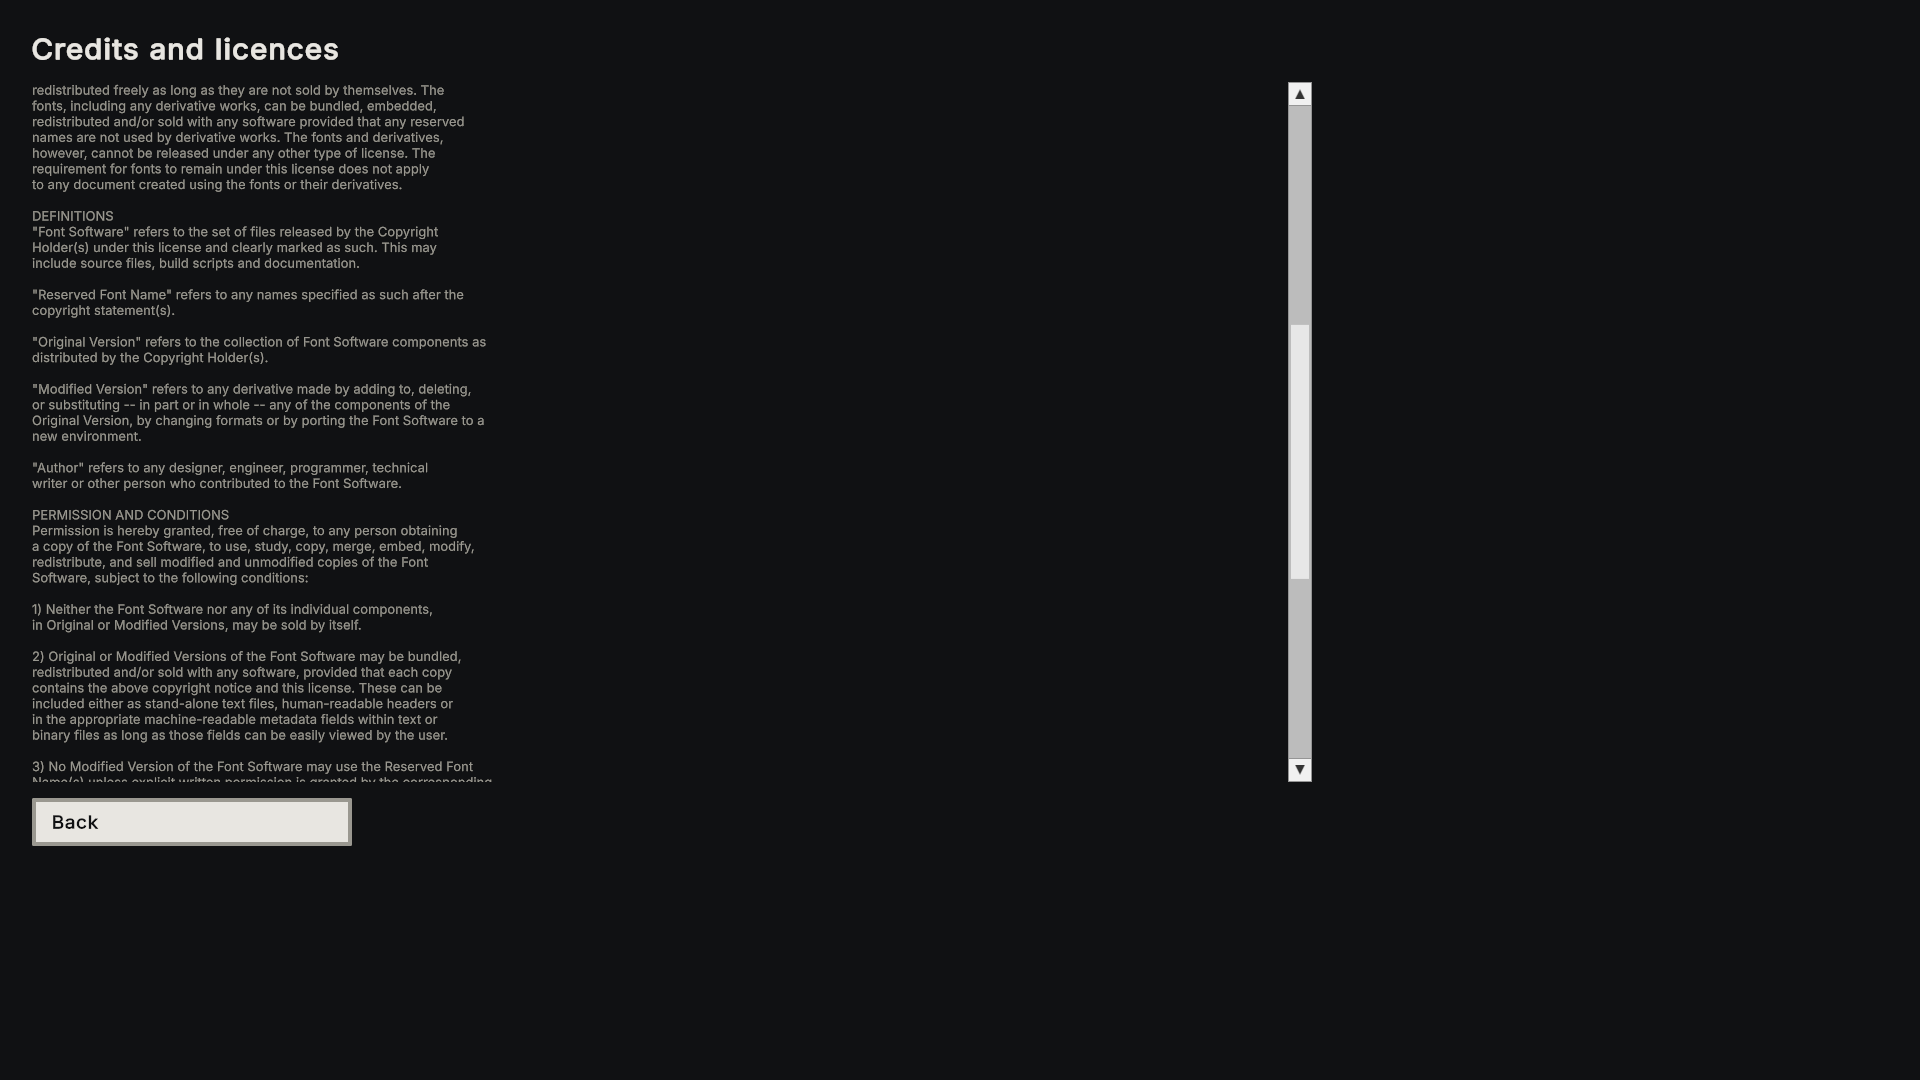
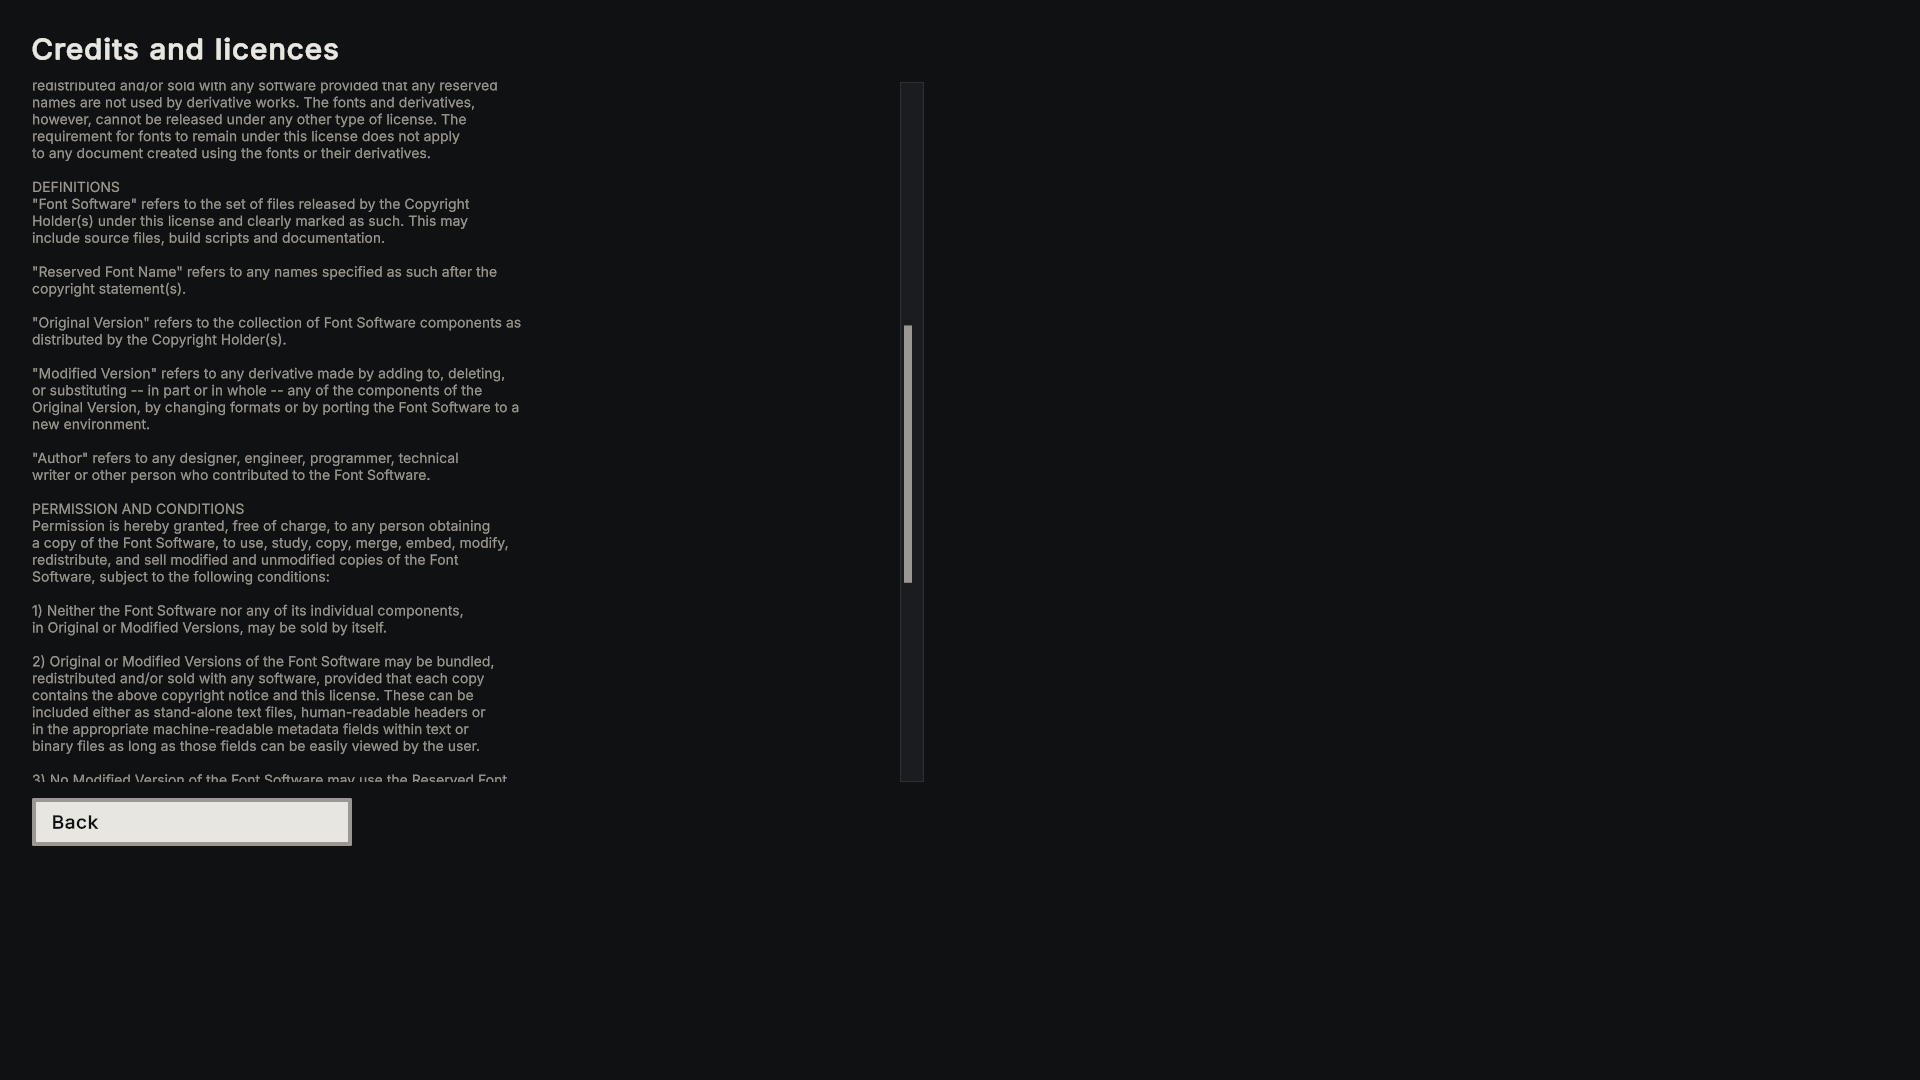
S3-credits a2: arrow/d-pad scrolling, themed scroller, narrower text column, guards, new shots

Changed region(s): [[0.0, 0.0611, 0.25, 0.7333], [0.6562, 0.0611, 0.6875, 0.7333], [0.4688, 0.3056, 0.5, 0.55]]

diff --git a/Client/Assets/Tests/EditMode/CreditsTests.cs b/Client/Assets/Tests/EditMode/CreditsTests.cs
@@ -74,6 +74,55 @@ namespace PingTheKiller.Client.Tests
         }
 
         [Test]
+        public void UpAndDownScrollTheBodyClampedAtBothEndsAndBackKeepsFocus()
+        {
+            var window = UnityEditor.EditorWindow.CreateInstance<UnityEditor.EditorWindow>(); window.Show();
+            try
+            {
+                var screen = new CreditsScreen(window.rootVisualElement, Resources.Load<Font>("Fonts/Inter-Regular"));
+                screen.Show();
+                var view = screen.Scroll;
+                // Edit-mode layout is lazy: give the content a known height and a short viewport, then force a layout pass.
+                view.style.height = 300; view.contentContainer.style.minHeight = 1200;
+                window.rootVisualElement.style.width = 1000; window.rootVisualElement.style.height = 800;
+                ForceLayout(window.rootVisualElement.panel);
+                float max = view.contentContainer.layout.height - view.contentViewport.layout.height;
+                Assume.That(max, Is.GreaterThan(0), "layout ran");
+                Send(screen, NavigationMoveEvent.Direction.Up);
+                Assert.That(view.scrollOffset.y, Is.EqualTo(0), "clamped at the top");
+                Send(screen, NavigationMoveEvent.Direction.Down);
+                Assert.That(view.scrollOffset.y, Is.EqualTo(CreditsScreen.LineStep).Within(.01f), "Down scrolls");
+                for (int i = 0; i < 100; i++) Send(screen, NavigationMoveEvent.Direction.Down);
+                Assert.That(view.scrollOffset.y, Is.EqualTo(max).Within(.01f), "clamped at the end");
+                Send(screen, NavigationMoveEvent.Direction.Up);
+                Assert.That(view.scrollOffset.y, Is.EqualTo(max - CreditsScreen.LineStep).Within(.01f), "Up scrolls back");
+                Assert.That(screen.Visible, Is.True);
+            }
+            finally { Object.DestroyImmediate(window); }
+        }
+
+        // Runs the panel's layout pass without painting (internal API, found by name).
+        private static void ForceLayout(IPanel panel)
+        {
+            const System.Reflection.BindingFlags all = System.Reflection.BindingFlags.Instance | System.Reflection.BindingFlags.Public | System.Reflection.BindingFlags.NonPublic;
+            foreach (string name in new[] { "ValidateLayout", "UpdateWithoutRepaint", "Update" })
+            {
+                for (var type = panel.GetType(); type != null; type = type.BaseType)
+                {
+                    var method = type.GetMethod(name, all, null, System.Type.EmptyTypes, null);
+                    if (method == null) continue;
+                    method.Invoke(panel, null);
+                    break;
+                }
+            }
+        }
+
+        private static void Send(CreditsScreen screen, NavigationMoveEvent.Direction direction)
+        {
+            using (var move = NavigationMoveEvent.GetPooled(direction)) { move.target = screen.Panel; screen.Panel.SendEvent(move); }
+        }
+
+        [Test]
         public void TheContentScrollsAndEndsWithTheOtherNotice()
         {
             var screen = Build(out _);

diff --git a/Client/Assets/Scripts/Dev/DevCapture.cs b/Client/Assets/Scripts/Dev/DevCapture.cs
@@ -705,7 +705,7 @@ namespace PingTheKiller.Client.Dev
         private double creditsAt = -1;
         private bool CreditsShot(double t)
         {
-            if (screens == null) { creditsStage = 5; return false; }
+            if (screens == null) { creditsStage = 9; return false; }
             switch (creditsStage)
             {
                 case 0: screens.ShowCredits(); creditsAt = t; creditsStage = 1; return true;
@@ -717,7 +717,9 @@ namespace PingTheKiller.Client.Dev
                         creditsAt = t; creditsStage = 3; return true;
                     }
                 case 3: if (t < creditsAt + .5) return true; creditsStage = 4; Shot("credits-licence.png"); return true;
-                default: screens.CloseCredits(); creditsStage = 5; return false;
+                case 4: screens.Credits.ScrollBy(100000f); creditsAt = t; creditsStage = 6; return true;
+                case 6: if (t < creditsAt + .5) return true; creditsStage = 7; Shot("credits-end.png"); return true;
+                default: screens.CloseCredits(); creditsStage = 9; return false;
             }
         }
         private double howToAt = -1;
@@ -784,8 +786,8 @@ namespace PingTheKiller.Client.Dev
             if (shots && !menuShot && t >= 1) { menuShot = true; Shot("menu.png"); return; }
             if (args.Settings && shots && menuShot && settingsStage < 3 && SettingsMenuShot(t)) return;
             if (args.HowTo && shots && menuShot && (!args.Settings || settingsStage >= 3) && howToStage < 5 && HowToShot(t)) return;
-            if (args.Credits && shots && menuShot && (!args.HowTo || howToStage >= 5) && creditsStage < 5 && CreditsShot(t)) return;
-            if ((args.Offline || args.Join != null) && !joined && (!shots || menuShot) && (!args.Settings || !shots || settingsStage >= 3) && (!args.HowTo || !shots || howToStage >= 5) && (!args.Credits || !shots || creditsStage >= 5))
+            if (args.Credits && shots && menuShot && (!args.HowTo || howToStage >= 5) && creditsStage < 9 && CreditsShot(t)) return;
+            if ((args.Offline || args.Join != null) && !joined && (!shots || menuShot) && (!args.Settings || !shots || settingsStage >= 3) && (!args.HowTo || !shots || howToStage >= 5) && (!args.Credits || !shots || creditsStage >= 9))
             {
                 joined = true;
                 if (args.Offline) Offline?.Invoke(); else Join?.Invoke(args.Join);

diff --git a/Client/Assets/Scripts/UI/CreditsScreen.cs b/Client/Assets/Scripts/UI/CreditsScreen.cs
@@ -40,8 +40,29 @@ namespace PingTheKiller.Client.UI
                 if (e.keyCode != KeyCode.Escape) return;
                 e.StopPropagation(); Close();
             });
+            // Up and Down (arrows, d-pad, stick) scroll by about three lines, PageUp and PageDown by a page; Back keeps focus.
+            panel.RegisterCallback<NavigationMoveEvent>(e =>
+            {
+                if (e.direction != NavigationMoveEvent.Direction.Up && e.direction != NavigationMoveEvent.Direction.Down) return;
+                ScrollBy(e.direction == NavigationMoveEvent.Direction.Down ? LineStep : -LineStep);
+                e.StopPropagation(); e.PreventDefault();
+            });
+            panel.RegisterCallback<KeyDownEvent>(e =>
+            {
+                if (e.keyCode != KeyCode.PageDown && e.keyCode != KeyCode.PageUp) return;
+                ScrollBy((e.keyCode == KeyCode.PageDown ? 1 : -1) * Mathf.Max(LineStep, scroll.contentViewport.layout.height - LineStep));
+                e.StopPropagation();
+            });
             panel.RegisterCallback<NavigationCancelEvent>(e => { e.StopPropagation(); Close(); });
             panel.style.display = DisplayStyle.None;
+        }
+
+        public const float LineStep = 72f; // about three lines of the 14 u body
+        // Scrolls the body by delta logical units, clamped to the content (the mouse wheel and the bar still work).
+        public void ScrollBy(float delta)
+        {
+            float max = Mathf.Max(0, scroll.contentContainer.layout.height - scroll.contentViewport.layout.height);
+            scroll.scrollOffset = new Vector2(0, Mathf.Clamp(scroll.scrollOffset.y + delta, 0, max));
         }
 
         public void Show()

diff --git a/Client/Assets/Scripts/UI/ClientScreens.cs b/Client/Assets/Scripts/UI/ClientScreens.cs
@@ -356,7 +356,7 @@ namespace PingTheKiller.Client.UI
         public void ShowHowTo() => ShowHowTo(Role.Survivor);
         public void ShowHowTo(Role page)
         {
-            if (HowToOpen || Playing) return;
+            if (HowToOpen || CreditsOpen || Playing) return;
             Show(menu, false);
             howTo.Show(page);
         }
@@ -364,7 +364,7 @@ namespace PingTheKiller.Client.UI
         // S3-credits (HUD_SPEC 1.8): the Credits and licences screen replaces the main menu; Back, Esc or B returns to it.
         public void ShowCredits()
         {
-            if (CreditsOpen || Playing) return;
+            if (CreditsOpen || HowToOpen || SettingsOpen || Playing) return;
             Show(menu, false);
             credits.Show();
         }

diff --git a/Client/Assets/Scripts/UI/CreditsCopy.cs b/Client/Assets/Scripts/UI/CreditsCopy.cs
@@ -26,7 +26,7 @@ namespace PingTheKiller.Client.UI
             "Tween library: DOTween by Demigiant",
         };
 
-        public const string InterNotice = "Inter. Copyright (c) 2016 The Inter Project Authors (https://github.com/rsms/inter). Licensed under the SIL Open Font License, Version 1.1. The full licence text follows.";
+        public const string InterNotice = "Inter (font)";
         public const string DoTweenNotice = "DOTween. Copyright (c) 2014-2026 Daniele Giardini, Demigiant. http://dotween.demigiant.com";
 
         // The full OFL text, or an empty string when the asset is missing.

diff --git a/docs/qa/S3-credits-qa-a1.md b/docs/qa/S3-credits-qa-a1.md
@@ -1,0 +1,90 @@
+# S3-credits QA, attempt 1
+
+Reviewer: Claude Fable 5.2 (implementer: Claude Sonnet 5.5). Commit `d4a3045` on `claude/s3-credits`, base `claude/store-prep`.
+
+**Verdict: FAIL** (two SLOP Section 9 gate failures: V10 and keyboard/gamepad navigation). SLOP score 75 / 100.
+
+## What was checked
+
+- Diff `claude/store-prep..d4a3045` read in full (`CreditsScreen.cs`, `CreditsCopy.cs`, `ClientScreens.cs`, `HelpUI.uss`, `DevArgs.cs`, `DevCapture.cs`, tests, docs).
+- Unity EditMode, batch mode, absolute `-testResults`: **1627 total, 1625 passed, 0 failed, 2 skipped**. All 8 `CreditsTests` passed. Matches the implementer's report.
+- A temporary QA probe test (removed afterwards, not committed) drove the real `ClientScreens` runtime panel (`RuntimePanel`, context Player), forced layout and sent `NavigationMoveEvent`s. Results are quoted under F-01 and F-02.
+- Screenshots `docs/qa/S3-credits/menu.png`, `credits-top.png`, `credits-licence.png` (the implementer's; no new shots were taken).
+- Player build `Client/Builds/Win64` (built 13:01, commit 13:02): `PingTheKiller_Data/resources.assets` contains the string `SIL OPEN FONT LICENSE`.
+- `Client/Assets/Resources/DOTweenSettings.asset` was touched by Unity (line endings only) and reverted. The worktree is clean except this report.
+
+## Findings
+
+### F-01 (blocker, gate): the licence text cannot be scrolled with a gamepad or with the arrow keys
+- Repro: open Credits. Focus is on Back. Press d-pad / stick / arrow keys in any direction.
+- Expected (brief): the screen works with keyboard, mouse and gamepad, and scrolls. The OFL text must be viewable by the user.
+- Actual: directional navigation never leaves Back and never scrolls. Probe log on the runtime panel, content 2035 u in a 700 u view (range 1335 u):
+  - `move Down / Up / Left / Right` from Back: `focused=Button 'Back'`, `offset=(0,0)` every time.
+  - `move Next` (Tab only): focus goes to the default `ScrollerSlider`; then each `move Down` scrolls 10 u (`offset=(0,10)`, `(0,20)`), so about 134 presses for the full text.
+- A gamepad has no Tab, so a gamepad-only player sees only the first 700 u: the credits list and the OFL preamble. Keyboard works only through Tab to an unstyled slider with no visible focus state.
+- `HUD_SPEC.md` 1.8 itself says only "the wheel or the scroll bar moves the text".
+- Fix direction: scroll the `ScrollView` from `NavigationMoveEvent` Up/Down on the panel (a page or about 120 u per press, key repeat), keep Back focused, and add a test that asserts `scrollOffset` changes.
+
+### F-02 (blocker, gate V10): the scroll bar is the default Unity runtime theme
+- Evidence: `credits-top.png` and `credits-licence.png`, x 1288 to 1312: light grey track, near-white dragger and arrow buttons with black triangles. Probe: tracker `RGBA(0.737,0.737,0.737)`, dragger `RGBA(0.906,0.906,0.906)`. No `unity-scroller` rule exists in any project `.uss`.
+- Expected: SLOP V10 (default Unity grey sliders) is a gate. The Settings slider was restyled for the same reason (`ClientUI.uss` `.set-slider`).
+- This is the first `ScrollView` in the client. Fix direction: style `.cr-scroll .unity-scroller` (track `#1A1C1F`, dragger `#9A9890` or `#E8E6E1`, 1 px `#2C2F33` line, radius 0, hide or restyle the arrow buttons, a focus state).
+
+### F-03 (minor): the Inter copyright line is shown twice in a row
+- `CreditsCopy.InterNotice` repeats the copyright and licence sentence that are the first lines of `OFL.txt`. Evidence: `credits-top.png` y 389 and y 410.
+- Keep `OFL.txt` verbatim; reduce `InterNotice` to a short label such as `Inter (font)`.
+
+### F-04 (minor): OFL body type is off the type scale
+- `.cr-ofl` is 13 u; the scale is 14 / 18 / 28. Use 14 u like `htp-se`.
+- Contrast is fine: `#9A9890` on `#101113` is about 6.5:1. At 1280x720 the `s-floor` class raises it to 15 u, so it stays readable.
+- The text keeps the file's hard line breaks (about 72 characters) inside a 1240 u column, so it reads as a narrow ragged block. Acceptable for a verbatim licence.
+
+### F-05 (minor): scroll bar position and empty right side
+- The view ends at x 1312 because it reuses the 1280 u `howto` frame. The left-aligned frame is the project convention (SLOP Section 8), so the empty right side is not a defect. A narrower text column (about 800 u) with the bar next to it would read better; the bar will also look less stray once F-02 is fixed.
+
+### F-06 (minor, code)
+- `ShowCredits` guards `CreditsOpen || Playing` but not `HowToOpen` / `SettingsOpen`, and `ShowHowTo` does not guard `CreditsOpen`. Not reachable from the UI (the menu is hidden), only from code or dev flags.
+- `DevCapture.cs`: the `-ptk-howto` comment is now separated from `HowToShot` by the new credits block.
+
+### F-07 (minor, tests)
+- `TheContentScrollsAndEndsWithTheOtherNotice` does not test scrolling (child count only), which is why F-01 passed.
+- No test for "Credits is disabled while connecting". `EscAndGamepadBClose` uses synthetic events only; gamepad B on hardware stays unverified.
+- The hype word list in `TheCopyFollowsTheSlopRules` is not the SLOP Section 4 list (Unleash, Epic, Ultimate, Immersive are missing).
+- Otherwise the tests are meaningful: open/close with idempotent close, focus return on the real `ClientScreens`, full OFL text from the resource and present on screen, no publisher / MCP / Newtonsoft, an active `ReleaseGate` test.
+
+## Checked and correct
+
+- Open/close state: the menu is hidden while Credits shows; `Phase` hides Credits on any screen change; `Close` is idempotent, so Esc arriving as both `KeyDownEvent` and `NavigationCancelEvent` is safe.
+- Focus returns to the Credits button (test on the real `ClientScreens`); Back has focus on open.
+- Input behind the screen: the Join Enter handler is on the hidden address field; the Esc menu, intro card and B-cancel paths in `ClientApp` run only in a match, and `ShowCredits` refuses while `Playing`. Credits is disabled while connecting.
+- OFL text: `Resources.Load<TextAsset>("Fonts/OFL")`, a `Resources` asset (in the repository since U4), present in the built player. Not editor-only. 4379 characters, full text.
+- Content: NIPAD, Robot Kyle and Rio with no publisher, DOTween notice, no unity-mcp or Newtonsoft.
+- `-ptk-credits`: only acts with `-ptk-shots` after the menu shot, ordered after Settings and How to play, then closes. Same exposure as the other dev flags.
+- Menu spacing (orchestrator's note): Credits uses `set-open` (margin-top 24 u) like How to play and Settings, so the three are evenly spaced (84 u pitch). The tighter Join / Offline gap predates this unit. Join stays the single dominant action (L3 holds).
+- Docs: `CREDITS.md` and `HUD_SPEC.md` 1.8 match the code (button position, frame, 1280 x 700, 13 u, copy source, flag, shot names). 1.8 must be updated when F-01, F-02 and F-04 are fixed.
+
+## SLOP Section 9 score
+
+| Check | Points | Score | Note |
+|---|---:|---:|---|
+| No V1-V12 | 20 | 8 | **V10 gate failed** (F-02) |
+| No L1-L8, one spacing scale | 15 | 12 | F-04, F-05 |
+| Copy and vocabulary | 15 | 13 | F-03 |
+| Every element: what state, what action | 15 | 15 | |
+| Role HUDs, no leak | 20 | 20 | not applicable, no regression |
+| States, keyboard and gamepad navigable | 10 | 3 | **gate failed** (F-01) |
+| Contrast, readable at 1280x720 | 5 | 4 | 6.5:1; 13 u body |
+| **Total** | 100 | **75** | below 85, two gate failures |
+
+## Unverified
+
+- Gamepad B and real pad navigation on hardware (no input may be sent to the desktop). F-01 is from `NavigationMoveEvent`s on the runtime panel in EditMode, with an 800 x 600 panel.
+- Mouse wheel and scroll bar drag (the screenshots show the scripted scroll only).
+- No new screenshots were taken; the build was not launched.
+
+## Fix list for attempt 2
+
+1. F-01: Up/Down (keys, d-pad, stick) scroll the text while Back keeps focus; test it.
+2. F-02: style the scroller to the palette, with a focus state if it stays focusable.
+3. F-03, F-04: drop the duplicate copyright line; 14 u body.
+4. Optional: F-05 column width, F-06 guards, F-07 tests. Update `HUD_SPEC.md` 1.8 and retake the three shots.

diff --git a/docs/ui/HUD_SPEC.md b/docs/ui/HUD_SPEC.md
@@ -157,7 +157,7 @@ Sounds: none.
 A "How to play" button sits under the Offline note in the main menu (class `set-open`), disabled while connecting. It opens the `howto` panel with two tabs, Survivor and Killer, and a Back button; Esc closes it. Each page has the headings `How to win`, `Controls`, `Status` (three lines: `Normal:`, `Lagging:`, `Rescue:`), `Signal and Silent` and `Skills` (names and effects from the existing skill tables). Copy lives in `HelpCopy.Page(role)`.
 
 ### 1.8 Credits and licences **(S3-credits)**
-A `Credits` button (class `set-open`) sits under Settings in the main menu and is disabled while connecting. It opens the `credits` panel (same frame as `howto`: left 32, top 32, 1280 u wide, no modal) with the title `Credits and licences`, a vertical `ScrollView` (1280 x 700 u) and a Back button (`primary`). Back, Esc or gamepad B (NavigationCancel) closes it and focus returns to the Credits button; Back has focus on open so the pad can leave at once, and the wheel or the scroll bar moves the text. Body: heading `Credits` and the credits list (`htp-t`), heading `Licences`, the Inter copyright line, the full SIL OFL 1.1 text (`cr-ofl`, 13 u, `muted`), then the DOTween notice. All copy is `CreditsCopy`; the OFL text is read at runtime from `Resources/Fonts/OFL.txt`, never copied into code. Not shown: unity-mcp and Newtonsoft (stripped from the Store build by S2). Developer name: `CreditsCopy.Developer`. Shots: `-ptk-credits` (`credits-top.png`, `credits-licence.png`).
+A `Credits` button (class `set-open`) sits under Settings in the main menu and is disabled while connecting. It opens the `credits` panel (same left-aligned frame as `howto`, no modal): title `Credits and licences`, a vertical `ScrollView` 880 x 700 u with an 840 u text column (about 90 characters per line) and a 12 u scroller (tracker `#1A1C1F` with a `#2C2F33` line, dragger `#9A9890`, `#E8E6E1` on hover or focus, no arrow buttons; rules in `ClientUI.uss`), and a Back button (`primary`). Back has focus on open. Up and Down (arrows, d-pad, stick) scroll by 72 u, PageUp and PageDown by a page, the wheel and the bar still work, and Back, Enter, A or Esc / B close it and focus returns to the Credits button. Opening it is refused while How to play or Settings is open, and the reverse. Body: heading `Credits` and the credits list (`htp-t`), heading `Licences`, the label `Inter (font)`, the full SIL OFL 1.1 text (`cr-ofl`, 14 u, `muted`), then the DOTween notice. All copy is `CreditsCopy`; the OFL text is read at runtime from `Resources/Fonts/OFL.txt`. Not shown: unity-mcp and Newtonsoft (stripped from the Store build by S2). Developer name: `CreditsCopy.Developer`. Shots: `-ptk-credits` (`credits-top.png`, `credits-licence.png`). How to play has no ScrollView (a fixed body), so it was not changed.
 
 ## 2. Lobby
 

diff --git a/docs/qa/S3-credits-impl-a2.md b/docs/qa/S3-credits-impl-a2.md
@@ -1,0 +1,10 @@
+# S3-credits implementation, attempt 2
+
+Implementer: Claude Sonnet 5.5. Fixes for `docs/qa/S3-credits-qa-a1.md` (SLOP 75/100).
+
+- **F-01:** `CreditsScreen` handles `NavigationMoveEvent` Up/Down (arrows, d-pad, stick): scroll 72 u, clamped; PageUp/PageDown scroll a page; Back keeps focus; wheel and bar unchanged. Shoulder buttons not added. New test `UpAndDownScrollTheBodyClampedAtBothEndsAndBackKeepsFocus` (real EditorWindow panel, layout forced by reflection, asserts both clamps; not inconclusive). How to play has no ScrollView (fixed body), so it has no such gap and was not changed.
+- **F-02:** `ClientUI.uss` scopes a scroller style to `.cr-scroll` (the only ScrollView): 12 u dark tracker, muted dragger, light on hover/focus, no arrow buttons, no horizontal bar.
+- **Minors:** `InterNotice` is now `Inter (font)` (OFL.txt untouched); OFL body 14 u; `ShowCredits` / `ShowHowTo` / Settings guard each other; text column 840 u (about 90 chars) inside an 880 u view; docs (HUD_SPEC 1.8) updated.
+- **Gates:** EditMode 1628 total, 1626 passed, 0 failed, 2 skipped (old). BuildWindows OK. Offline run: no exceptions. `dotnet build -warnaserror` clean.
+- **Shots:** `docs/qa/S3-credits/` `menu`, `credits-top`, `credits-licence`, `credits-end`.
+- **Unverified:** real gamepad. Unity-touched assets reverted.
